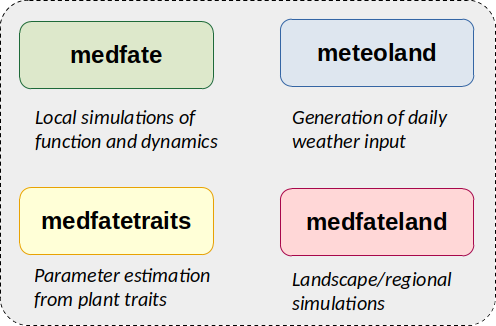
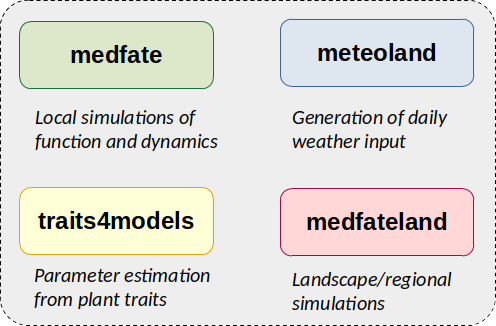
name changes

Changed region(s): [[0.0605, 0.6442, 0.3931, 0.7055]]

diff --git a/README.md b/README.md
@@ -8,7 +8,7 @@ traits4models - from plant traits to model parameters
 ## Introduction
 
 Package **traits4models** is designed to facilitate creating species
-parameter tables for package
+parameter tables for process-based models such as those of package
 [medfate](https://github.com/emf-creaf/medfate). Specifically utility
 functions are provided to harmonize plant trait data bases and defining
 tables from them.
